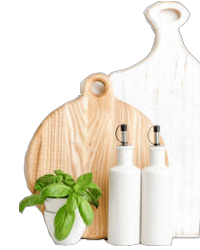
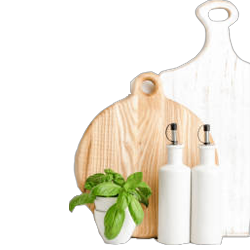
style: finalize dash photos and adjust for darkmode

diff --git a/client/src/components/Dashboard.css b/client/src/components/Dashboard.css
@@ -27,13 +27,23 @@ main {
 
 .dash-div {
   display: flex;
-  align-items: center;
-  justify-content: center;
-  height: 100%;
-  flex-direction: column;
+  justify-content: flex-start;
+  height: 100vh;
   cursor: pointer;
   font-size: 24px;
-  }
+}
+
+@media only screen and (min-width: 550px) {
+  .dash-div {
+    display: flex;
+    align-items: center;
+    justify-content: center;
+    height: 100%;
+    flex-direction: column;
+    cursor: pointer;
+    font-size: 24px;
+    }
+}
 
 
 .veg-footer2 {
@@ -52,3 +62,5 @@ main {
   padding: 10px;
   text-align: center;
 }
+
+
